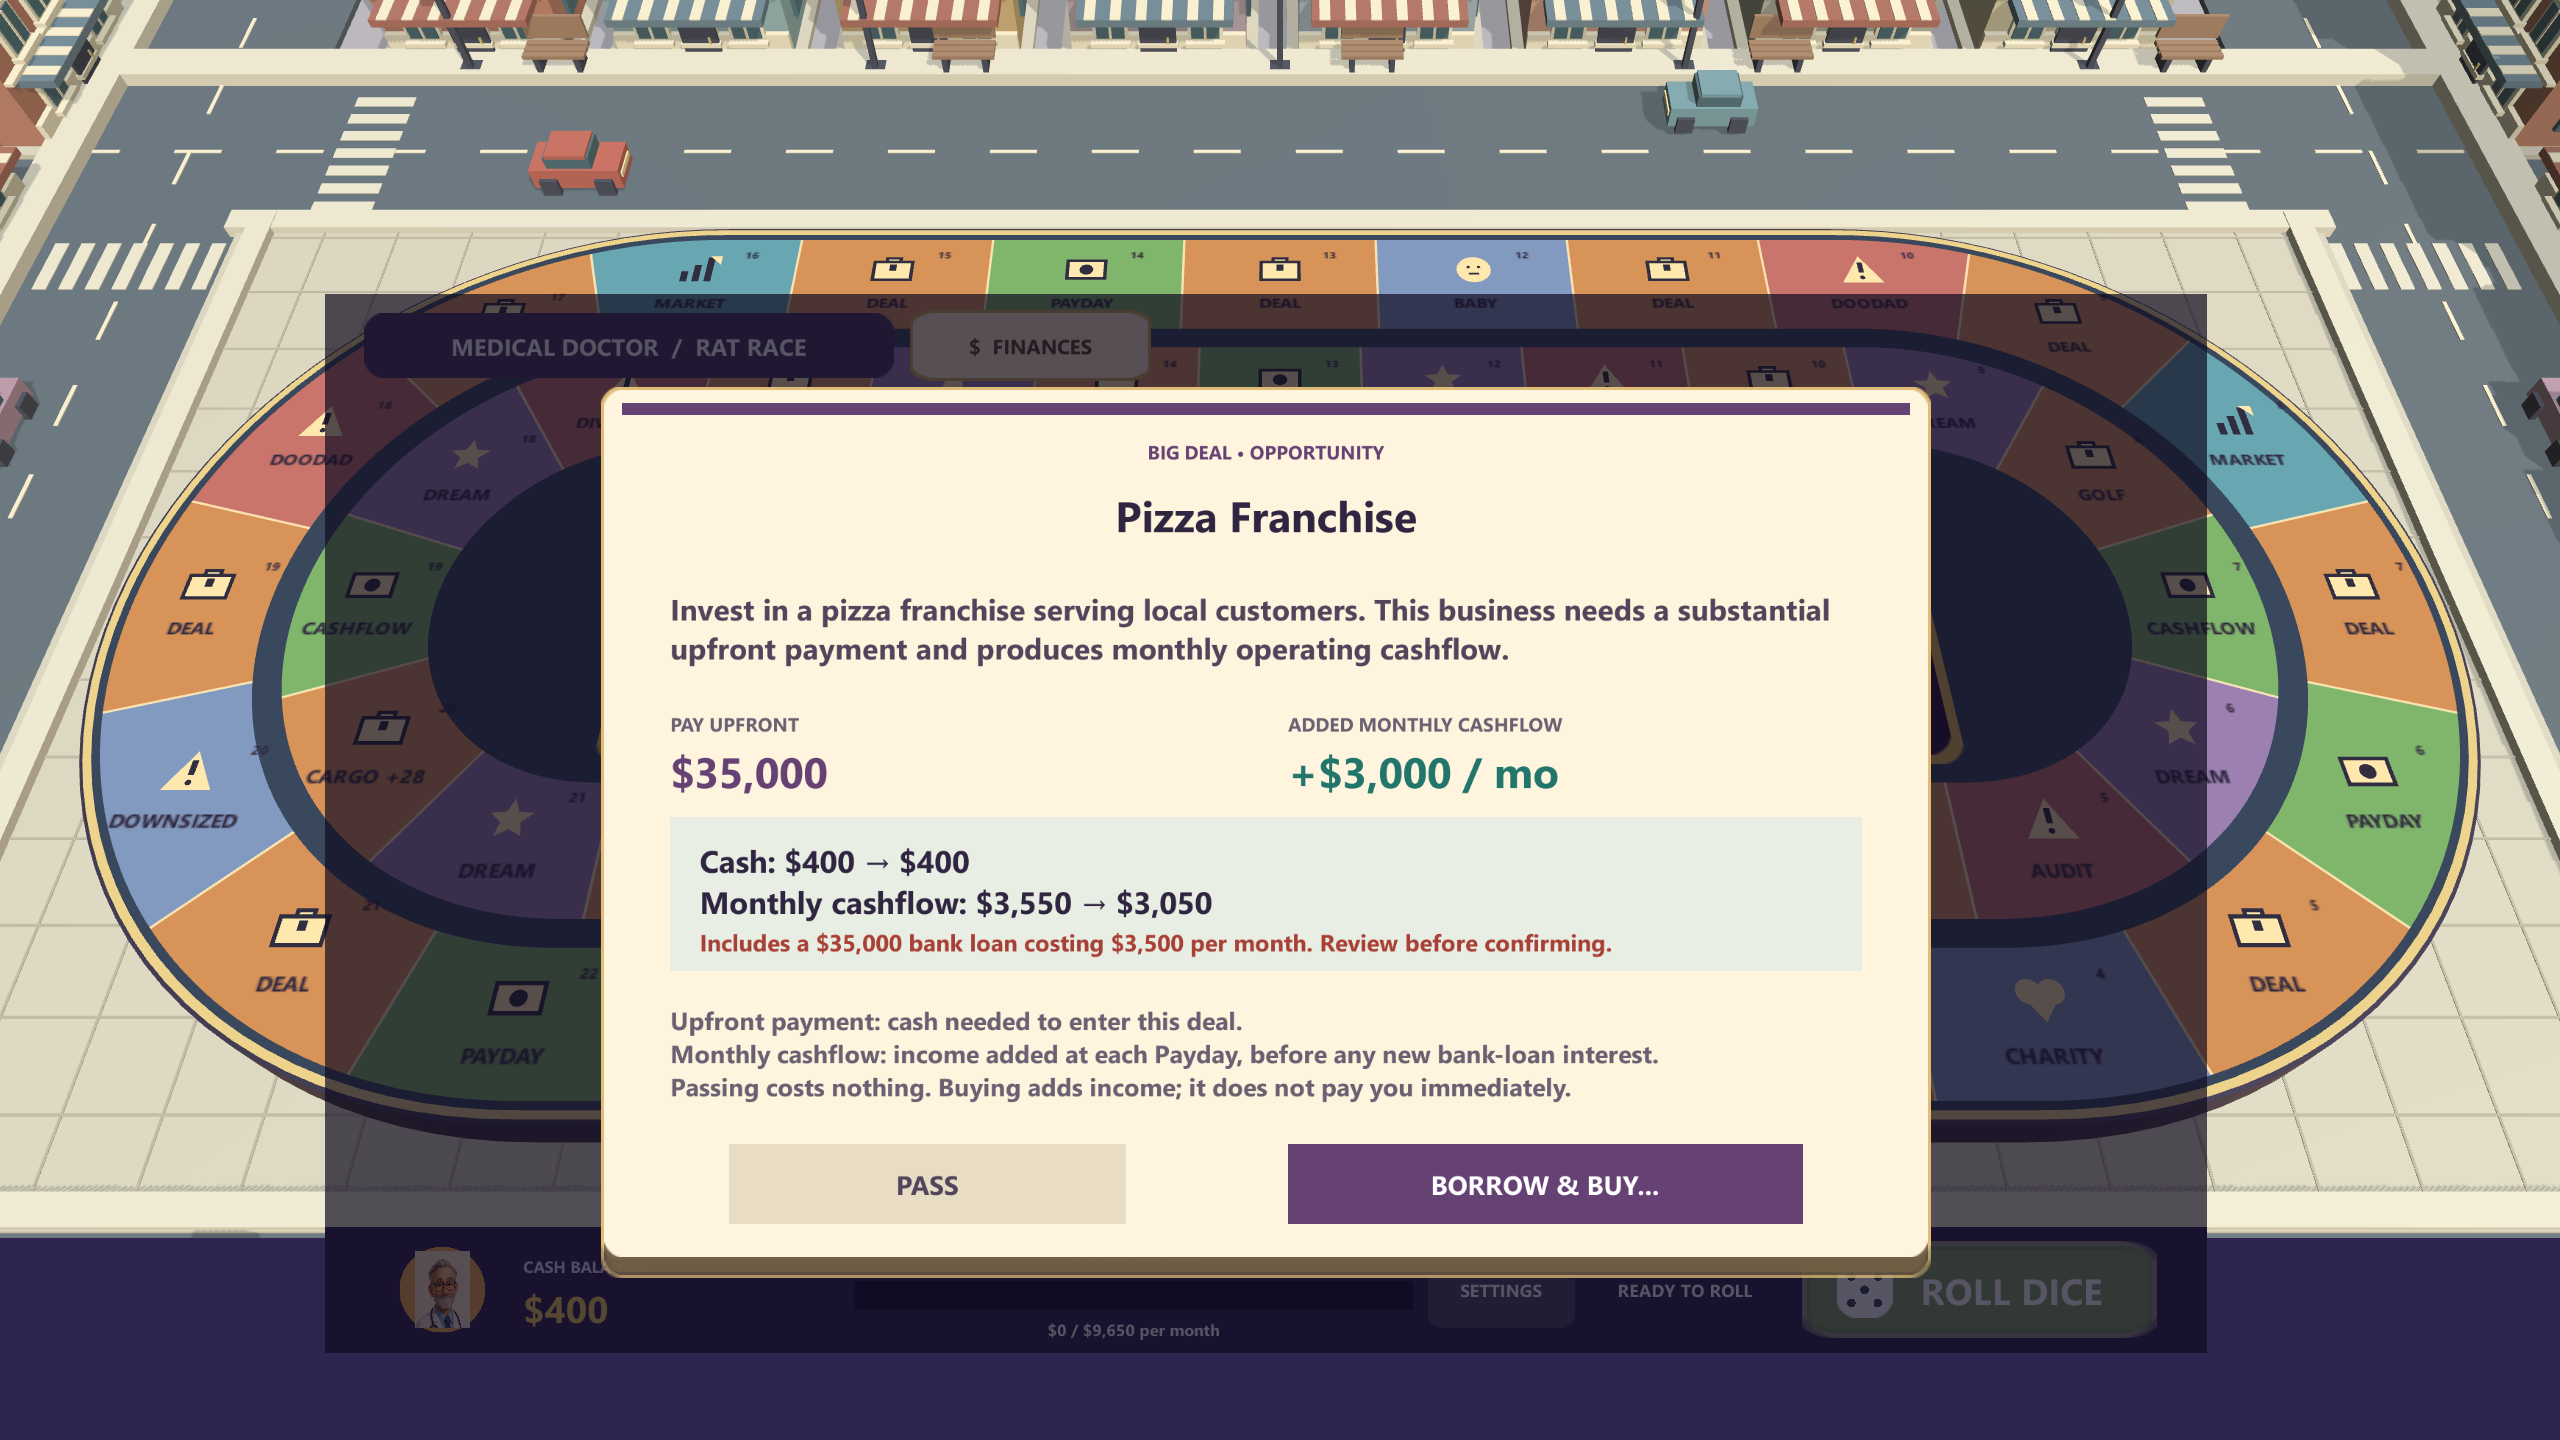
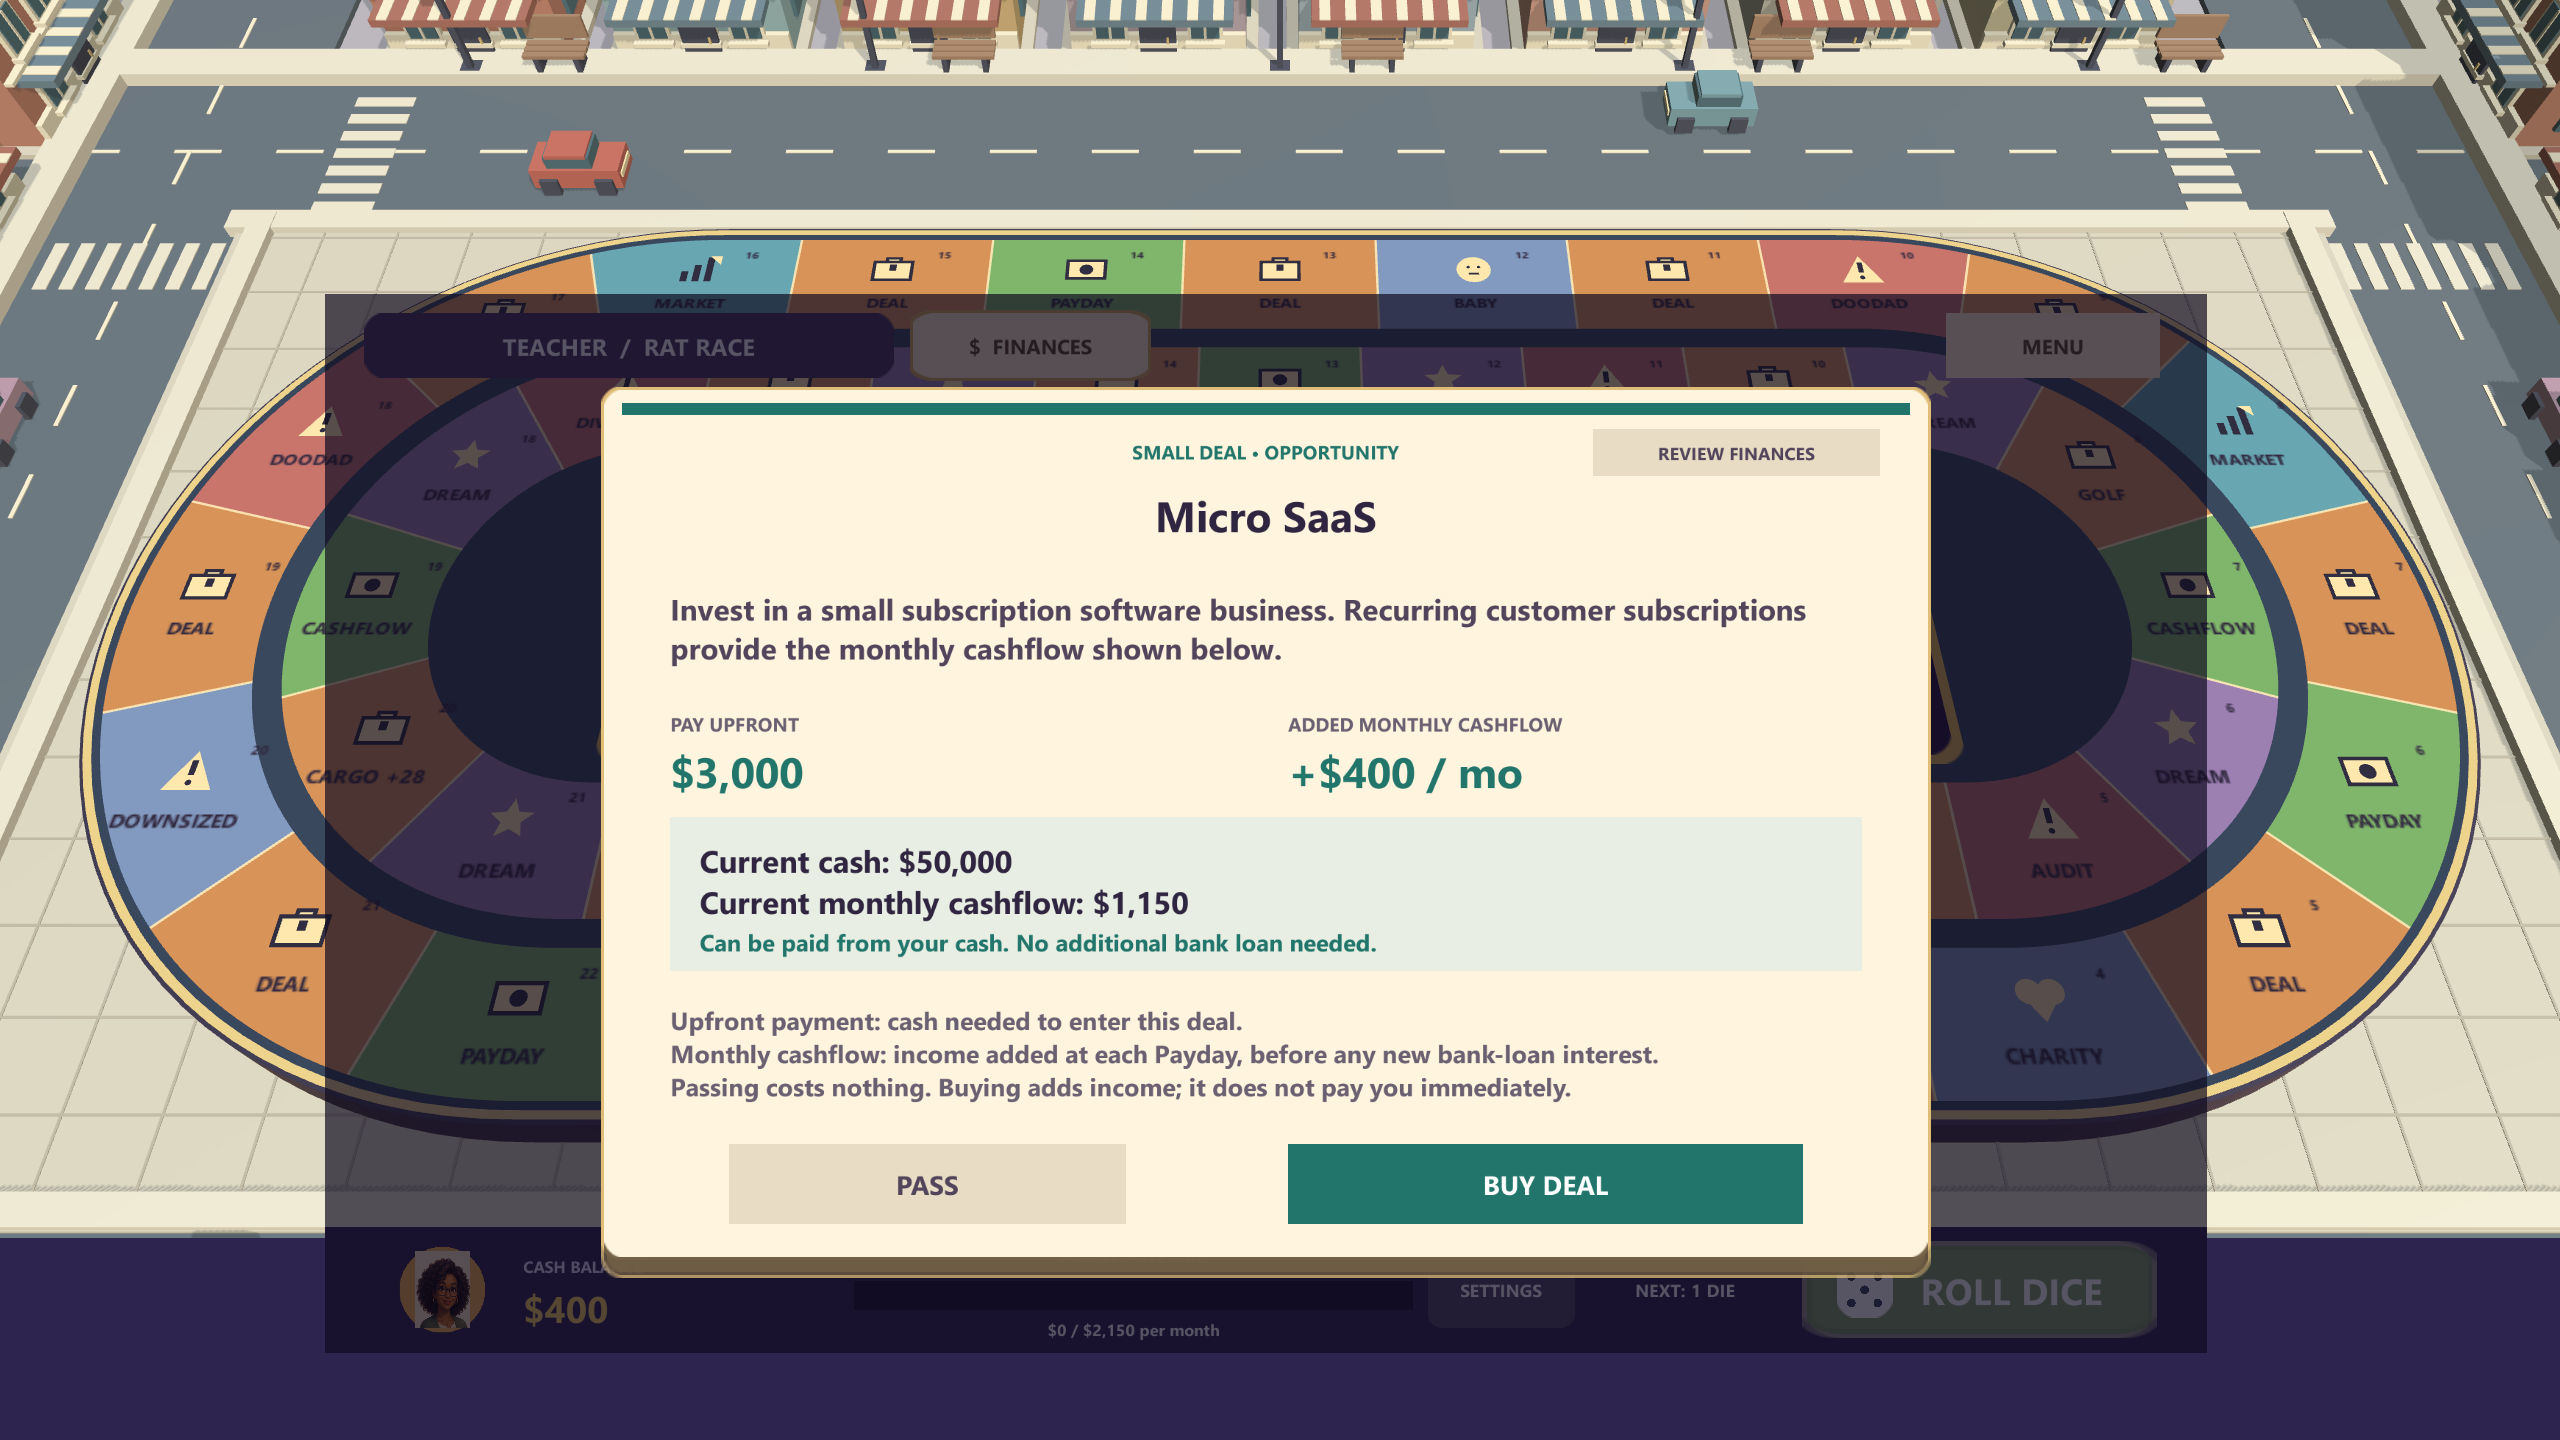
Refactor cashflow display and loan offer details; update card dimensions and review results

diff --git a/Assets/Scripts/CashflowFinance.cs b/Assets/Scripts/CashflowFinance.cs
@@ -23,20 +23,22 @@ public partial class CashflowGame
     void ShowLoanOffer(Deal deal,bool big)
     {
         int principal=LoanNeeded(deal),payment=principal/10;bool resolved=false;
-        var card=CardShell("BANK LOAN • REVIEW BEFORE BUYING",deal.title,C("#654174"),new Vector2(760,520));
-        FinanceRow(card.transform,"Borrow",Money(principal),100);
-        FinanceRow(card.transform,"Added monthly interest",Money(payment)+" / mo",52);
-        FinanceRow(card.transform,"Deal income after added interest",Money(deal.flow-payment)+" / mo",4);
-        FinanceRow(card.transform,"Cash after purchase",Money(cash+principal-deal.down),-44);
-        var terms=Label(card.transform,"Game rule: borrow in $1,000 steps at $100/month per step.\nInterest does not reduce the loan. Repay principal in Finances.",16);terms.color=C("#6a6071");Place(terms.rectTransform,0,-113,680,58);
+        var card=CardShell("BANK LOAN • REVIEW BEFORE BUYING",deal.title,C("#654174"),new Vector2(900,590));
+        FinanceRow(card.transform,"Deal upfront payment",Money(deal.down),140);
+        FinanceRow(card.transform,"Deal monthly income",Money(deal.flow)+" / mo",98);
+        FinanceRow(card.transform,"Borrow",Money(principal),56);
+        FinanceRow(card.transform,"Added monthly interest",Money(payment)+" / mo",14);
+        FinanceRow(card.transform,"Current cash",Money(cash),-28);
+        FinanceRow(card.transform,"Current monthly cashflow",Money(Income()-Expenses())+" / mo",-70);
+        var terms=Label(card.transform,"Deal income is before this new loan's interest.\nGame rule: borrow in $1,000 steps at $100/month per step.\nInterest does not reduce the loan. Repay principal in Finances.",16);terms.color=C("#6a6071");Place(terms.rectTransform,0,-153,810,78);
         var accept=Button(card.transform,"BORROW & BUY",C("#654174"),()=>
         {
             if(resolved)return;resolved=true;
             // Recompute against the current balance, so accepting cannot overdraw cash.
             int loan=LoanNeeded(deal);PurchaseInvestment(deal,loan);
             CloseModal();CheckEscape();Refresh();Log("Borrowed "+Money(loan)+" and bought "+deal.title+". Loan interest: "+Money(LoanPayment())+"/mo.");PurchaseCelebration(deal);
-        });accept.name="Confirm Loan";Place(accept.GetComponent<RectTransform>(),150,-202,310,54);SetButtonText(accept,Color.white,18);
-        var pass=Button(card.transform,"PASS ON DEAL",C("#e8dcc5"),()=>{if(resolved)return;resolved=true;CloseModal();Log("Passed on "+deal.title+". No loan taken.");});pass.name="Pass Loan";Place(pass.GetComponent<RectTransform>(),-190,-202,270,54);SetButtonText(pass,C("#51445b"),18);
+        });accept.name="Confirm Loan";Place(accept.GetComponent<RectTransform>(),190,-245,350,54);SetButtonText(accept,Color.white,18);
+        var pass=Button(card.transform,"PASS ON DEAL",C("#e8dcc5"),()=>{if(resolved)return;resolved=true;CloseModal();Log("Passed on "+deal.title+". No loan taken.");});pass.name="Pass Loan";Place(pass.GetComponent<RectTransform>(),-230,-245,270,54);SetButtonText(pass,C("#51445b"),18);
     }
     void ShowStatement()
     {

diff --git a/Assets/Scripts/CashflowCards.cs b/Assets/Scripts/CashflowCards.cs
@@ -59,10 +59,10 @@ public partial class CashflowGame
         bool affordable=cash>=deal.down, resolved=false;
         int loan=affordable?0:LoanNeeded(deal),interest=loan/10;
         var preview=Panel(card.transform,Vector2.one*.5f,Vector2.one*.5f,new Vector2(810,105),C("#e8eee3"));Place(preview.GetComponent<RectTransform>(),0,-48,810,105);
-        var impact=Label(preview.transform,"Cash: "+Money(cash)+" → "+Money(cash+loan-deal.down)+
-            "\nMonthly cashflow: "+Money(Income()-Expenses())+" → "+Money(Income()-Expenses()+deal.flow-interest),21,TextAnchor.MiddleLeft);
-        impact.name="Deal Impact";impact.color=C("#302540");Place(impact.rectTransform,0,9,770,62);
-        var funding=Label(preview.transform,affordable?"Paid from your cash. No additional bank loan needed.":"Includes a "+Money(loan)+" bank loan costing "+Money(interest)+" per month. Review before confirming.",16,TextAnchor.MiddleLeft);
+        var current=Label(preview.transform,"Current cash: "+Money(cash)+
+            "\nCurrent monthly cashflow: "+Money(Income()-Expenses()),21,TextAnchor.MiddleLeft);
+        current.name="Current Deal Finances";current.color=C("#302540");Place(current.rectTransform,0,9,770,62);
+        var funding=Label(preview.transform,affordable?"Can be paid from your cash. No additional bank loan needed.":"Buying requires a "+Money(loan)+" bank loan at "+Money(interest)+" per month. Review before confirming.",16,TextAnchor.MiddleLeft);
         funding.name="Deal Funding";funding.color=C(affordable?"#21756a":"#a84036");Place(funding.rectTransform,0,-32,770,28);
         var terms=Label(card.transform,"Upfront payment: cash needed to enter this deal.\nMonthly cashflow: income added at each Payday, before any new bank-loan interest.\nPassing costs nothing. Buying adds income; it does not pay you immediately.",17,TextAnchor.MiddleLeft);
         terms.name="Deal Terms";terms.color=C("#6a6071");Place(terms.rectTransform,0,-156,810,90);
